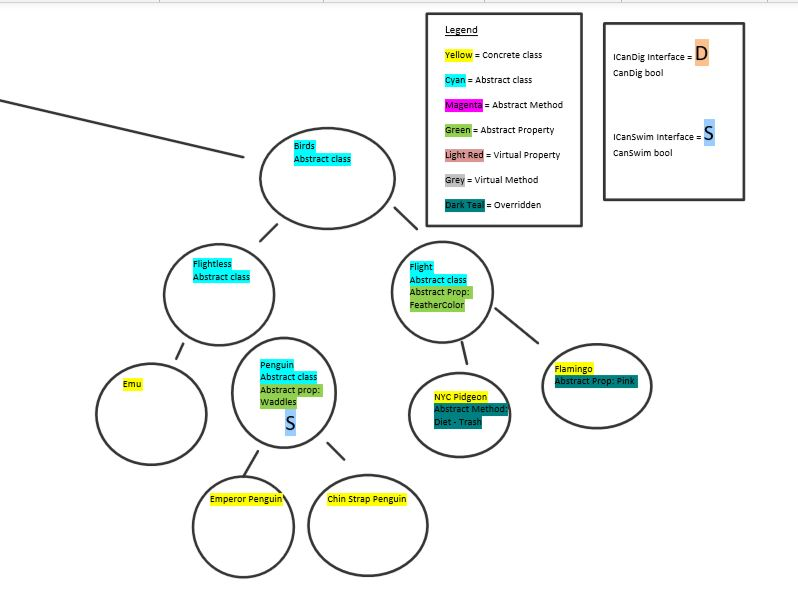
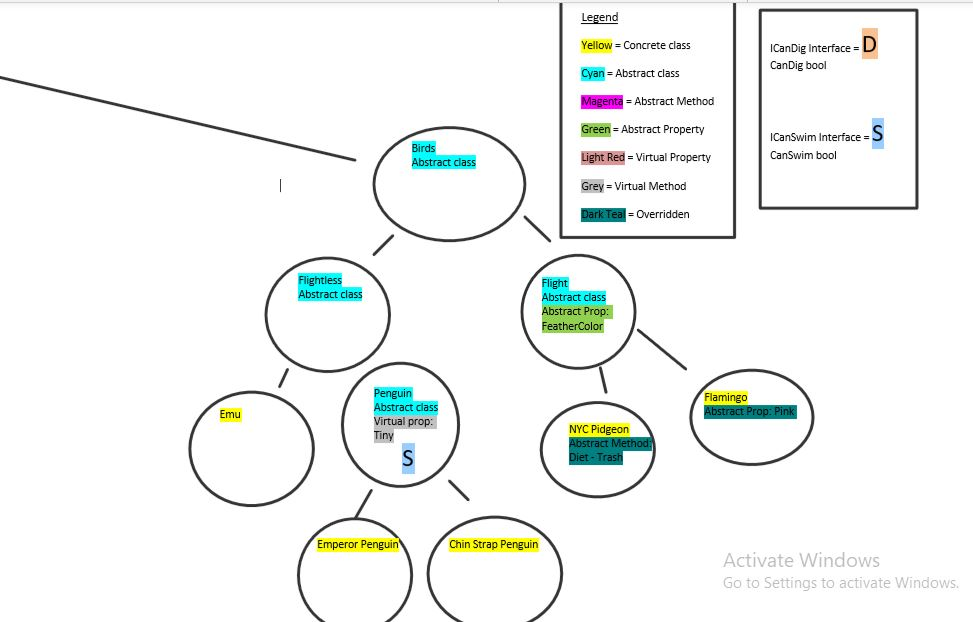
Finished connecting most of the classes and interfaces with each other

diff --git a/ZooApp/ZooApp/Classes/NYCPidgeon.cs b/ZooApp/ZooApp/Classes/NYCPidgeon.cs
@@ -4,17 +4,19 @@ using System.Text;
 
 namespace ZooApp.Classes
 {
-    class Emu : Flightless
+    class NYCPidgeon : Flight
     {
+        public override string FeatherColor { get; set; } = "Grey, white and a smidge of green. For envy.";
+
         public override string Diet()
         {
-            string dd = "I imagine it is grass, berries and haaaaaay.";
+            string dd = "Let's be real. Probably bread crumbs. And trash.";
             return dd;
         }
 
         public override string Sound()
         {
-            string ss = "Wah, wah, wah";
+            string ss = "Coo, man. Coo...";
             return ss;
         }
     }

diff --git a/ZooApp/ZooApp/Classes/GilaMonster.cs b/ZooApp/ZooApp/Classes/GilaMonster.cs
@@ -4,17 +4,19 @@ using System.Text;
 
 namespace ZooApp.Classes
 {
-    class Emu : Flightless
+    class GilaMonster : Desert
     {
+        public override bool Coldblooded { get; set; } = true;
+
         public override string Diet()
         {
-            string dd = "I imagine it is grass, berries and haaaaaay.";
+            string dd = "Bugs and sand. Their pride.";
             return dd;
         }
 
         public override string Sound()
         {
-            string ss = "Wah, wah, wah";
+            string ss = "Hiss, hiss, hiss~";
             return ss;
         }
     }

diff --git a/ZooApp/ZooApp/Classes/BoaConstrictor.cs b/ZooApp/ZooApp/Classes/BoaConstrictor.cs
@@ -4,7 +4,22 @@ using System.Text;
 
 namespace ZooApp.Classes
 {
-    class BoaConstrictor
+    class BoaConstrictor : Swamp
     {
+        public override bool HasLegs { get; set; } = false;
+
+        public override bool Coldblooded { get; set; } = true;
+
+        public override string Diet()
+        {
+            string dd = "Large animals that are not often human.";
+            return dd;
+        }
+
+        public override string Sound()
+        {
+            string ss = "Hisses and kisses";
+            return ss;
+        }
     }
 }

diff --git a/ZooApp/ZooApp/Classes/Koalas.cs b/ZooApp/ZooApp/Classes/Koalas.cs
@@ -4,7 +4,22 @@ using System.Text;
 
 namespace ZooApp.Classes
 {
-    class Koalas
+    class Koalas : Marsupials
     {
+        public override bool Endangered { get; set; } = true;
+
+        public override bool WarmBlooded { get; set; } = true;
+
+        public override string Diet()
+        {
+            string dd = "Eucaplyptus leaves.";
+            return dd;
+        }
+
+        public override string Sound()
+        {
+            string ss = "Groaning for eucalyptus.";
+            return ss;
+        }
     }
 }

diff --git a/ZooApp/ZooApp/Classes/Bonobos.cs b/ZooApp/ZooApp/Classes/Bonobos.cs
@@ -4,7 +4,25 @@ using System.Text;
 
 namespace ZooApp.Classes
 {
-    class Bonobos
+    class Bonobos : Primates
     {
+        public override bool WarmBlooded { get; set; } = true;
+
+        public override string Diet()
+        {
+            string bb = "Bananas!";
+            return bb;
+        }
+
+        public override bool Fur()
+        {
+            return true;
+        }
+
+        public override string Sound()
+        {
+            string ss = "Whoop, whoop!";
+            return ss;
+        }
     }
 }

diff --git a/ZooApp/ZooApp/Classes/GreyKangaroos.cs b/ZooApp/ZooApp/Classes/GreyKangaroos.cs
@@ -4,7 +4,20 @@ using System.Text;
 
 namespace ZooApp.Classes
 {
-    class GreyKangaroos
+    public class GreyKangaroos : Marsupials
     {
+        public override bool WarmBlooded { get; set; } = true;
+
+        public override string Diet()
+        {
+            string dd = "Bugs, Berries and bogans...maybe not the last one. One wishes.";
+            return dd;
+        }
+
+        public override string Sound()
+        {
+            string ss = "Kangaroo Jack raps.";
+            return ss;
+        }
     }
 }

diff --git a/ZooApp/ZooApp/Classes/Flamingo.cs b/ZooApp/ZooApp/Classes/Flamingo.cs
@@ -4,7 +4,20 @@ using System.Text;
 
 namespace ZooApp.Classes
 {
-    class Flamingo
+    class Flamingo : Flight
     {
+        public override string FeatherColor { get; set; } = "Pink";
+
+        public override string Diet()
+        {
+            string dd = "Fish? I bet they eat their dancings.";
+            return dd;
+        }
+
+        public override string Sound()
+        {
+            string ss = "Honk, honk...(they look prettier than they sound)";
+            return ss;
+        }
     }
 }

diff --git a/ZooApp/ZooApp/Classes/Crocodile.cs b/ZooApp/ZooApp/Classes/Crocodile.cs
@@ -4,7 +4,20 @@ using System.Text;
 
 namespace ZooApp.Classes
 {
-    class Crocodile
+    class Crocodile : Swamp
     {
+        public override bool Coldblooded { get; set; } = true;
+
+        public override string Diet()
+        {
+            string dd = "Zebras. Gazelles. Humans, sometimes. Be careful, yo.";
+            return dd;
+        }
+
+        public override string Sound()
+        {
+            string ss = "A cross between a hiss and a gasp.";
+            return ss;
+        }
     }
 }

diff --git a/ZooApp/ZooApp/Classes/Chimpanzees.cs b/ZooApp/ZooApp/Classes/Chimpanzees.cs
@@ -4,7 +4,20 @@ using System.Text;
 
 namespace ZooApp.Classes
 {
-    class Chimpanzees
+    class Chimpanzees : Primates
     {
+        public override bool WarmBlooded { get; set; } = true;
+
+        public override string Diet()
+        {
+            string bb = "Oh you know: Bananas, nuts, other chimps. The usual";
+            return bb;
+        }
+
+        public override string Sound()
+        {
+            string ss = "Screeches in the background";
+            return ss;
+        }
     }
 }

diff --git a/ZooApp/ZooApp/Classes/Swamp.cs b/ZooApp/ZooApp/Classes/Swamp.cs
@@ -1,10 +1,14 @@
 using System;
 using System.Collections.Generic;
 using System.Text;
+using ZooApp.Interfaces;
 
 namespace ZooApp.Classes
 {
-    class Swamp
+    public abstract class Swamp : Reptiles, ICanSwim, ICanDig
     {
+        public bool CanSwim { get; set; }
+        public bool CanDig { get; set; }
+        public virtual bool HasLegs { get; set; }
     }
 }

diff --git a/ZooApp/ZooApp/Classes/Primates.cs b/ZooApp/ZooApp/Classes/Primates.cs
@@ -1,10 +1,12 @@
 using System;
 using System.Collections.Generic;
 using System.Text;
+using ZooApp.Interfaces;
 
 namespace ZooApp.Classes
 {
-    class Primates
+    public abstract class Primates : Mammals, ICanDig
     {
+        public bool CanDig { get; set; } = true;
     }
 }

diff --git a/ZooApp/ZooApp/Classes/Animals.cs b/ZooApp/ZooApp/Classes/Animals.cs
@@ -6,6 +6,14 @@ namespace ZooApp.Classes
 {
     public abstract class Animals
     {
+        public abstract string Sound();
+
+        public abstract string Diet();
+
+        public virtual bool Fur()
+        {
+            return true;
+        }
 
     }
 }
